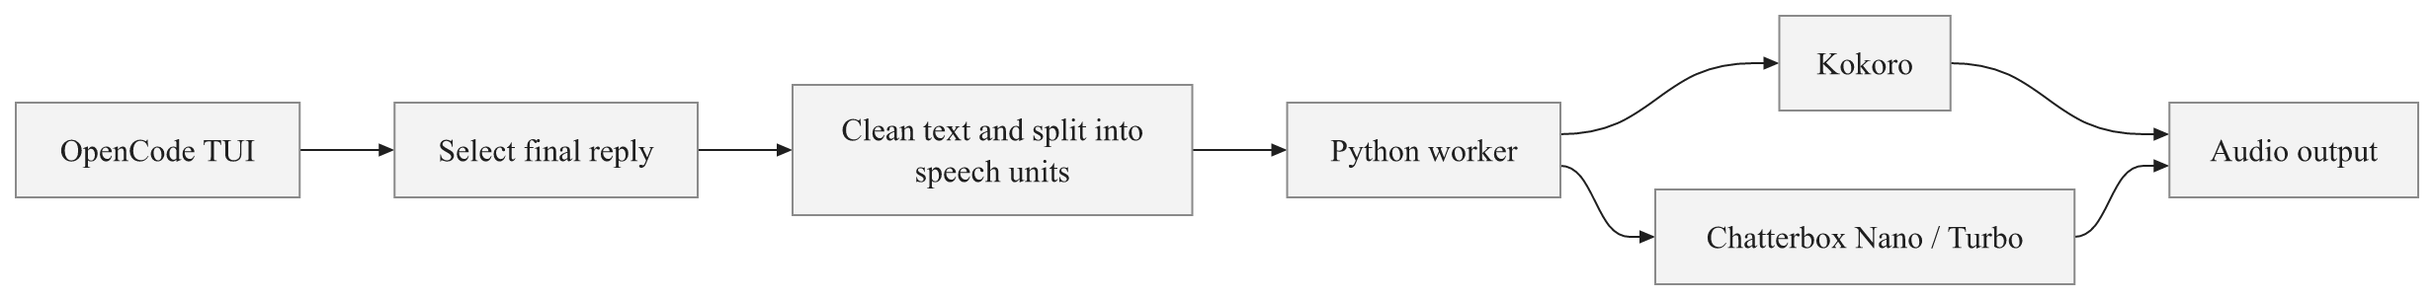
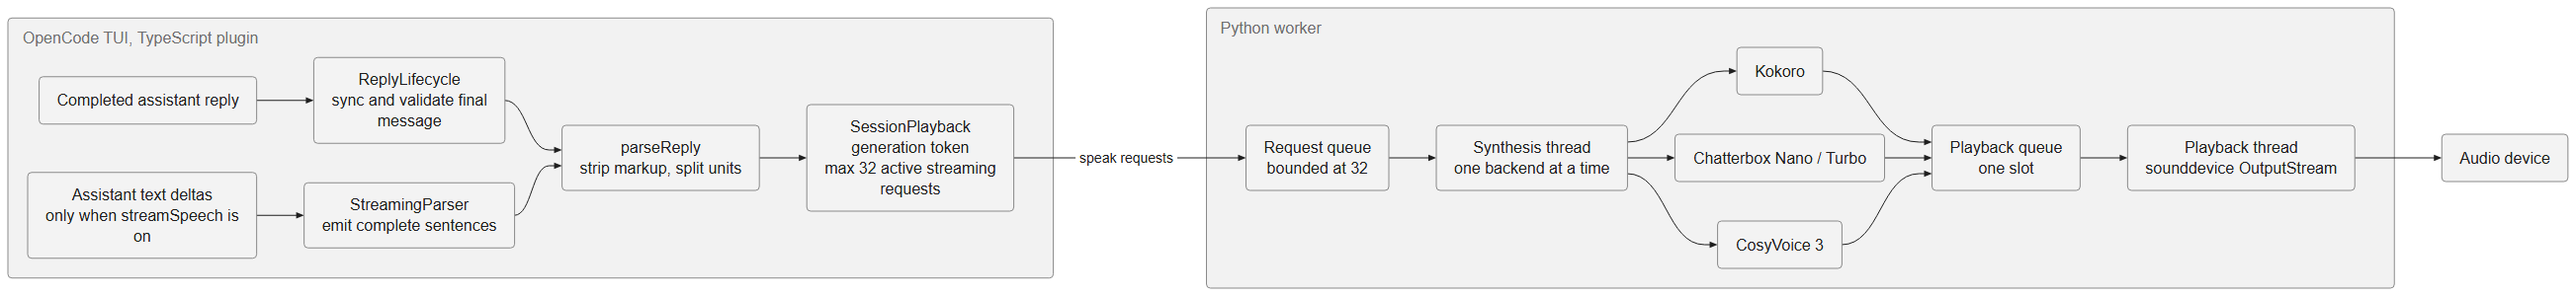
Update README and architecture diagrams

diff --git a/README.md b/README.md
@@ -1,28 +1,10 @@
 # Voice plugin
 
-Local text-to-speech for completed OpenCode TUI replies on Windows. Choose Kokoro, Chatterbox Nano, Chatterbox Turbo, or CosyVoice 3. Fenced code is skipped; the saved transcript is unchanged.
+Local text-to-speech for completed OpenCode TUI replies on Windows. Choose Kokoro, Chatterbox Nano, Chatterbox Turbo, or CosyVoice 3. Fenced code is skipped and the saved transcript is unchanged.
 
-## How it works
+## Quick start
 
-![Voice plugin architecture](architecture.png)
-
-![Reply to audio sequence](reply-to-audio.png)
-
-```text
-src/
-├── opencode/index.ts          Plugin setup, commands and final-reply selection
-└── shared/                    Parsing, session playback and worker transport
-worker/
-├── main.py                    Request queue, backend dispatch and playback
-├── delivery.py                Kokoro emotion-to-speed mapping
-├── chatterbox_backend.py      Chatterbox loading and synthesis
-└── conditioning_cache.py      Custom-voice conditioning cache
-tests/                         TypeScript and Python tests
-```
-
-## Install
-
-Requirements: OpenCode v2.2.6, Node.js, npm, Python 3.12, and an audio output device. Kokoro uses the bundled eSpeak library when available; otherwise, install and configure eSpeak NG. Existing `PHONEMIZER_ESPEAK_LIBRARY` and `PHONEMIZER_ESPEAK_DATA_PATH` settings are respected.
+Requirements: OpenCode v2.2.6, Node.js, npm, Python 3.12, and an audio output device. Kokoro uses the bundled eSpeak library when available. Otherwise, install and configure eSpeak NG. Existing `PHONEMIZER_ESPEAK_LIBRARY` and `PHONEMIZER_ESPEAK_DATA_PATH` settings are respected.
 
 From the plugin directory in PowerShell:
 
@@ -32,7 +14,7 @@ py -3.12 -m venv .venv
 .\.venv\Scripts\python.exe -m pip install -e .
 ```
 
-Add the plugin to the global OpenCode TUI `cli.json` (not the server config). Replace the paths with absolute paths on your machine:
+Add the plugin to the global OpenCode TUI `cli.json`, not the server config. Replace the paths with absolute paths on your machine:
 
 ```json
 {
@@ -50,17 +32,107 @@ Add the plugin to the global OpenCode TUI `cli.json` (not the server config). Re
 }
 ```
 
-All options are optional. Kokoro is the default backend, with voice `af_heart`, speed `1.0`, and Python at `<projectRoot>\.venv\Scripts\python.exe`. Kokoro voice names must start with `af_`, `am_`, `bf_`, or `bm_`; speed must be between `0.7` and `1.3`.
+Restart OpenCode, open a root session, and run `/voice-on`. Speech starts off in every session. Default settings speak the completed reply once the execution finishes. Set `streamSpeech` only if you accept the disclosure risk described below.
 
-### Experimental streaming
+The default Kokoro setup needs no options. Other backends may require additional paths, as noted below.
 
-Set `"streamSpeech": true` in the plugin options to opt in. It defaults to false. Streaming can speak intermediate, failed, retried or interrupted assistant text before the final reply is known. That text can quote sensitive content or tool inputs and outputs. Played audio cannot be recalled. Event validation is retrospective, so missing or reordered deltas can already have been spoken before a mismatch is detected. Do not enable this where that disclosure risk is unacceptable.
+| Option | Default | Purpose |
+| --- | --- | --- |
+| `projectRoot` | Plugin directory | Base for the worker and `.voice-cache` |
+| `python` | `<projectRoot>\.venv\Scripts\python.exe` | Python running the worker |
+| `backend` | `kokoro` | `kokoro`, `chatterbox-nano`, `chatterbox-turbo`, or `cosyvoice3` |
+| `voice` | `af_heart` | Kokoro voice name |
+| `speed` | `1.0` | Kokoro speed from `0.7` to `1.3` |
+| `referenceAudio` | None | Absolute path to reference audio for Chatterbox or CosyVoice |
+| `chatterboxPython` | `python` | Absolute path to the Chatterbox environment |
+| `cosyvoicePython` | None | Absolute path to the CosyVoice environment |
+| `cosyvoiceSource` | None | Absolute path to a CosyVoice source checkout |
+| `cosyvoiceModel` | None | Absolute path to a CosyVoice 3 model directory |
+| `streamSpeech` | `false` | Speak reply text while it is generated |
+| `log` | `false` | Write worker diagnostics to `.voice-cache` |
 
-The incremental parser supports common fenced and inline code, links, images, autolinks, URLs, emphasis, escapes, and non-nested voice tags. It withholds incomplete or unsupported constructs rather than guessing. Markdown can be reinterpreted by later input, such as a reference definition, so this is not a general safety filter for Markdown or sensitive model output. Streaming event ordering and text-part mapping have not yet been verified in a live OpenCode session. Cold worker startup and in-flight synthesis can delay playback and cancellation.
+Kokoro voice names must start with `af_`, `am_`, `bf_`, or `bm_`. Speed must be between `0.7` and `1.3`. The plugin validates `voice` and `speed` for every backend, but only Kokoro uses them. Changing options requires an OpenCode restart.
 
-Set `"log": true` in the plugin options and restart OpenCode to capture worker diagnostics and stderr in `<projectRoot>/.voice-cache/worker-*.log`. Logging defaults to false. Each worker has its own file, capped at 1 MiB with one 1 MiB `.log.1` backup; output may be dropped if logging cannot keep up. Logs are unredacted and may contain speech, paths, or secrets emitted by dependencies. Delete the `worker-*.log` and `worker-*.log.1` files to remove them.
+## How it works
 
-Model weights download on first use. Set `HF_TOKEN` before starting OpenCode to authenticate Hugging Face downloads; if it is unset or blank, downloads are anonymous even when a Hub login is cached. Cached models work without another download.
+![Voice plugin architecture](architecture.png)
+
+By default, the plugin waits for `session.execution.succeeded`, syncs the session, and validates the final assistant message. It accepts one completed message with `finish: "stop"` and no error or retry. The text parts are joined, parsed into speech units, and sent to the worker as one `speak` request. This is the normal path and avoids speaking text that later changes.
+
+With `streamSpeech: true`, the plugin follows assistant text deltas while the reply is generated. An incremental parser exposes only complete sentences, and each sentence becomes a separate `speak` request. A generation token invalidates stale streams, and the client allows at most 32 active requests per session. A full queue stops the stream and reports an error instead of dropping the rest silently.
+
+The Python worker reads newline-delimited JSON from stdin. A bounded queue holds at most 32 requests. One synthesis thread runs one backend at a time and feeds a one-slot playback queue, while a separate playback thread writes audio to a `sounddevice` output stream. That split lets the next unit synthesize during playback. Duplicate request IDs are ignored.
+
+Cancellation is cooperative. `/voice-stop`, `/voice-off`, a new answer, or a stale stream marks the request cancelled and drops pending audio. In streaming mode, a failed execution, retry, or interruption cancels the stream too. The playback thread aborts the active output stream. A model call already in progress finishes before the backend notices the cancellation, so stopping is not instant. Cancelled audio is not played.
+
+![Reply to audio sequence](reply-to-audio.png)
+
+```text
+src/
+├── opencode/
+│   ├── index.ts               Plugin setup, options, commands and footer status
+│   └── reply-lifecycle.ts     Final-reply validation and optional streaming
+└── shared/
+    ├── parse-reply.ts         Fenced-code removal, markup cleanup and units
+    ├── streaming-parser.ts    Incremental sentence selection
+    ├── session-playback.ts    Session enablement, tokens and request bounds
+    ├── worker-client.ts       Worker process, protocol and lifecycle
+    └── worker-log.ts          Opt-in worker log
+worker/
+├── main.py                    Request queue, backend dispatch and playback
+├── synthesis.py               Per-request cancellation and diagnostics
+├── delivery.py                Kokoro emotion-to-speed mapping
+├── chatterbox_backend.py      Chatterbox loading, conditioning and synthesis
+├── conditioning_cache.py      Custom-voice conditioning cache
+├── cosyvoice_backend.py       CosyVoice loading and synthesis
+└── logging_utils.py           Worker stderr logging
+tests/                         TypeScript and Python tests
+```
+
+Kokoro and Chatterbox model weights download on first use. Set `HF_TOKEN` before starting OpenCode to authenticate Hugging Face downloads. If it is unset or blank, downloads are anonymous even when a Hub login is cached. Cached models work without another download.
+
+## Kokoro
+
+Kokoro is the default backend and is installed by the quick start. It selects a pipeline from the voice's language prefix and applies speed changes from emotion tags. `voice` and `speed` validate even when another backend is selected, so keep a valid Kokoro pair in the configuration.
+
+## Chatterbox
+
+Install Chatterbox separately to avoid changing Kokoro's dependencies:
+
+```powershell
+py -3.12 -m venv .venv-chatterbox
+.\.venv-chatterbox\Scripts\python.exe -m pip install --upgrade pip
+.\.venv-chatterbox\Scripts\python.exe -m pip install "git+https://github.com/resemble-ai/chatterbox.git@ab55923c27757c90cfcc407baa57dc25a7d25217" "sounddevice==0.5.6"
+```
+
+Git and network access are required. This pins the Chatterbox source, not its model weights or every dependency. Upstream pins PyTorch and torchaudio 2.6.0 for Python 3.12 and tested on Debian, not Windows. Alternative GPU runtimes may conflict with those pins. The upstream project is retired and unsupported.
+
+Set the following plugin options, choosing `chatterbox-nano` or `chatterbox-turbo`:
+
+```json
+{
+  "projectRoot": "C:\\path\\to\\voice-plugin",
+  "backend": "chatterbox-turbo",
+  "chatterboxPython": "C:\\path\\to\\voice-plugin\\.venv-chatterbox\\Scripts\\python.exe",
+  "referenceAudio": "C:\\path\\to\\voice-reference.wav"
+}
+```
+
+`chatterboxPython` falls back to `python` when omitted. `referenceAudio` is optional and must be an absolute path. Without it, Chatterbox uses its bundled voice conditioning if available. For a custom voice, use a clean recording longer than five seconds. Upstream examples use about ten seconds. Only clone a voice with permission.
+
+The first use of a reference saves voice conditioning in `.voice-cache`, which is excluded from Git. Later requests and restarts can use the cache even if the reference file is missing, provided `referenceAudio` still points to the same path. Entries are separate for Nano, Turbo, and different model weights. Changing the recording refreshes its cache. A corrupt entry requires the reference to rebuild. Delete `.voice-cache` to remove the voice-derived data.
+
+The worker tries a PyTorch `cuda` device when available, including compatible AMD ROCm runtimes, and falls back to CPU with a diagnostic if GPU loading or synthesis fails. CPU inference can be slow. Installing an AMD-compatible PyTorch build is hardware-specific and may conflict with Chatterbox's pinned dependencies.
+
+### Chatterbox sounds and moods
+
+Nano and Turbo accept sound tags inline. The [official Turbo demo](https://huggingface.co/spaces/ResembleAI/chatterbox-turbo-demo) lists:
+
+`[clear throat]`, `[sigh]`, `[shush]`, `[cough]`, `[groan]`, `[sniff]`, `[gasp]`, `[chuckle]`, `[laugh]`
+
+For example: `That's funny! [chuckle] Anyway, let's continue.` The model may not produce an audible effect every time.
+
+These are sound events, not mood controls. The plugin does not expose Chatterbox mood settings or map its emotion spans to Chatterbox. Kokoro's `voice`, `speed`, and emotion-speed settings do not change Chatterbox output.
 
 ## CosyVoice 3
 
@@ -78,56 +150,23 @@ Configure absolute paths to your own local installation:
 }
 ```
 
-Only clone a voice with permission. References must be at least one second at 16 kHz or higher; use a clean recording. For clips at least 20 seconds, seconds 10–20 are used; otherwise the first 10 seconds or the whole shorter clip is used. The original remains unchanged. Prepared reference features are held in memory and discarded when the worker exits.
+Only clone a voice with permission. References must be at least one second at 16 kHz or higher; use a clean recording. For clips at least 20 seconds, seconds 10 to 20 are used. Otherwise the first 10 seconds or the whole shorter clip is used. The original remains unchanged. Prepared reference features are held in memory and discarded when the worker exits.
 
-The model uses the available PyTorch GPU when supported, while ONNX reference processing may use CPU. The tested AMD 890M setup generated 4.8 seconds of audio in about 48 seconds with a 10-second reference, excluding model load; it emitted attention and MIOpen warnings. Synthesis cannot be interrupted mid-operation, but cancelled audio is suppressed. Kokoro voice, speed and emotion settings do not affect CosyVoice. The integrated output should be judged by listening.
+The model uses the available PyTorch GPU when supported, while ONNX reference processing may use CPU. The tested AMD 890M setup generated 4.8 seconds of audio in about 48 seconds with a 10-second reference, excluding model load. It emitted attention and MIOpen warnings. Synthesis cannot be interrupted mid-operation, but cancelled audio is suppressed. Kokoro voice, speed, and emotion settings do not affect CosyVoice. Judge the integrated output by listening.
 
-## Chatterbox
+The plugin reads these options at startup and starts one worker. A worker that has loaded CosyVoice refuses a different backend, so restart OpenCode after changing `backend`.
 
-Install Chatterbox separately to avoid changing Kokoro's dependencies:
-
-```powershell
-py -3.12 -m venv .venv-chatterbox
-.\.venv-chatterbox\Scripts\python.exe -m pip install --upgrade pip
-.\.venv-chatterbox\Scripts\python.exe -m pip install "git+https://github.com/resemble-ai/chatterbox.git@ab55923c27757c90cfcc407baa57dc25a7d25217" "sounddevice==0.5.6"
-```
-
-Git and network access are required. This pins the Chatterbox source, not its model weights or every dependency. Upstream pins PyTorch and torchaudio 2.6.0 for Python 3.12, tested on Debian rather than Windows; alternative GPU runtimes may conflict with those pins. The upstream project is retired and unsupported.
-
-Set the following plugin options, choosing `chatterbox-nano` or `chatterbox-turbo`:
-
-```json
-{
-  "projectRoot": "C:\\path\\to\\voice-plugin",
-  "backend": "chatterbox-turbo",
-  "chatterboxPython": "C:\\path\\to\\voice-plugin\\.venv-chatterbox\\Scripts\\python.exe",
-  "referenceAudio": "C:\\path\\to\\voice-reference.wav"
-}
-```
-
-`chatterboxPython` falls back to `python` when omitted. `referenceAudio` is optional and must be an absolute path. Without it, Chatterbox uses its bundled voice conditioning if available. For a custom voice, use a clean recording longer than five seconds; upstream examples use about ten seconds. Only clone a voice with permission.
-
-The first use of a reference saves voice conditioning in `.voice-cache`, which is excluded from Git. Later requests and restarts can use the cache even if the reference file is missing, provided `referenceAudio` still points to the same path. Entries are separate for Nano, Turbo, and different model weights; changing the recording refreshes its cache. A corrupt entry requires the reference to rebuild. Delete `.voice-cache` to remove the voice-derived data.
-
-The worker tries a PyTorch `cuda` device when available, including compatible AMD ROCm runtimes, and falls back to CPU with a diagnostic if GPU loading or synthesis fails. CPU inference can be slow. Installing an AMD-compatible PyTorch build is hardware-specific and may conflict with Chatterbox's pinned dependencies.
-
-### Chatterbox sounds and moods
-
-Nano and Turbo accept sound tags inline. The [official Turbo demo](https://huggingface.co/spaces/ResembleAI/chatterbox-turbo-demo) lists:
-
-`[clear throat]`, `[sigh]`, `[shush]`, `[cough]`, `[groan]`, `[sniff]`, `[gasp]`, `[chuckle]`, `[laugh]`
-
-For example: `That's funny! [chuckle] Anyway, let's continue.` The model may not produce an audible effect every time.
-
-These are sound events, not mood controls. The plugin does not expose Chatterbox mood settings or map its emotion spans to Chatterbox; Kokoro's `voice`, `speed`, and emotion-speed settings do not change Chatterbox output.
-
-## Controls and emotions
+## Controls
 
 - `/voice-on` enables speech for the current root session and disables and cancels speech in the previously enabled session.
 - `/voice-off` disables speech and cancels its current request.
 - `/voice-stop` cancels the current request without disabling future speech.
 
-Speech starts off in each root session; the footer shows `Voice: OFF`. At most one session per TUI can have voice enabled. Navigating to another session does not stop speech; use `/voice-on` there to switch. Child sessions cannot enable voice. A new answer cancels that session's previous request. In-progress synthesis cannot be forcibly interrupted, but cancelled audio is suppressed.
+Speech starts off in each root session. The footer shows `Voice: OFF`, `Voice: ON`, or `Voice: WORKING` for the current root session. At most one session per TUI can have voice enabled. Navigating to another session does not stop speech; use `/voice-on` there to switch. Child sessions cannot enable voice. A new answer cancels that session's previous request.
+
+## Speech text and emotions
+
+Fenced code is skipped. Inline code, images, links, autolinks, and common emphasis markers are removed from speech. The saved transcript is unchanged.
 
 For optional emotion spans, ask the assistant to use non-nested tags such as:
 
@@ -137,7 +176,23 @@ For optional emotion spans, ask the assistant to use non-nested tags such as:
 
 Supported emotions are `calm`, `excited`, `sad`, `reassuring`, and `serious`, with weights from 0 to 1. Invalid names or weights are ignored. Raw tags may remain visible in the transcript but are removed from speech.
 
-Kokoro approximates emotion by adjusting speed: `calm -0.12`, `excited +0.18`, `sad -0.16`, `reassuring -0.08`, and `serious -0.06`, multiplied by their weights and clamped to `0.7–1.3`. Chatterbox does not apply these speed adjustments or translate the weights into sound tags.
+Kokoro approximates emotion by adjusting speed: `calm -0.12`, `excited +0.18`, `sad -0.16`, `reassuring -0.08`, and `serious -0.06`, multiplied by their weights and clamped to `0.7` to `1.3`. Chatterbox does not apply these speed adjustments or translate the weights into sound tags.
+
+## Optional streaming
+
+Set `"streamSpeech": true` in the plugin options to opt in. It defaults to false. Streaming can speak intermediate, failed, retried, or interrupted assistant text before the final reply is known. That text can quote sensitive content, tool inputs, or tool outputs. Played audio cannot be recalled. Event validation is retrospective, so missing or reordered deltas may already have been spoken before a mismatch is detected. Do not enable this where that disclosure risk is unacceptable.
+
+The incremental parser supports common fenced and inline code, links, images, autolinks, URLs, emphasis, escapes, and non-nested voice tags. It withholds incomplete or unsupported constructs rather than guessing. Markdown can be reinterpreted by later input, such as a reference definition, so this is not a general safety filter for Markdown or sensitive model output.
+
+A single text part and the parser buffer are each capped at 64 KiB. The client allows at most 32 active requests per session; overflow stops that stream and reports once. A stream failure cancels the session's queued audio. Cold worker startup and in-flight synthesis can delay playback and cancellation.
+
+A manual session played streamed speech successfully. Automated tests cover the parser, stale tokens, queue order, and overflow handling. They do not prove every event order or long-run behavior in a live OpenCode session.
+
+## Logging and local data
+
+Set `"log": true` in the plugin options and restart OpenCode to capture worker diagnostics and stderr in `<projectRoot>/.voice-cache/worker-*.log`. Logging defaults to false. Each worker has its own file, capped at 1 MiB with one 1 MiB `.log.1` backup. Output may be dropped if logging cannot keep up. Logs are unredacted and may contain speech, paths, or secrets emitted by dependencies. Delete the `worker-*.log` and `worker-*.log.1` files to remove them.
+
+The plugin does not modify the transcript. It sends speech text to the local worker process. Chatterbox conditioning and logs stay in `.voice-cache`; delete that directory to remove them. CosyVoice reference features stay in worker memory and are discarded when the worker exits.
 
 ## Checks
 
@@ -147,4 +202,4 @@ npm run check
 .\.venv\Scripts\python.exe -m unittest discover -s tests
 ```
 
-If playback fails, check the selected audio device, model downloads, and eSpeak configuration for Kokoro. If the worker exits, fix the error and restart OpenCode; it does not automatically retry.
+If playback fails, check the selected audio device, model downloads, and eSpeak configuration for Kokoro. Check `.voice-cache` logs if logging is enabled. If the worker exits, fix the error and restart OpenCode; it does not automatically retry.
